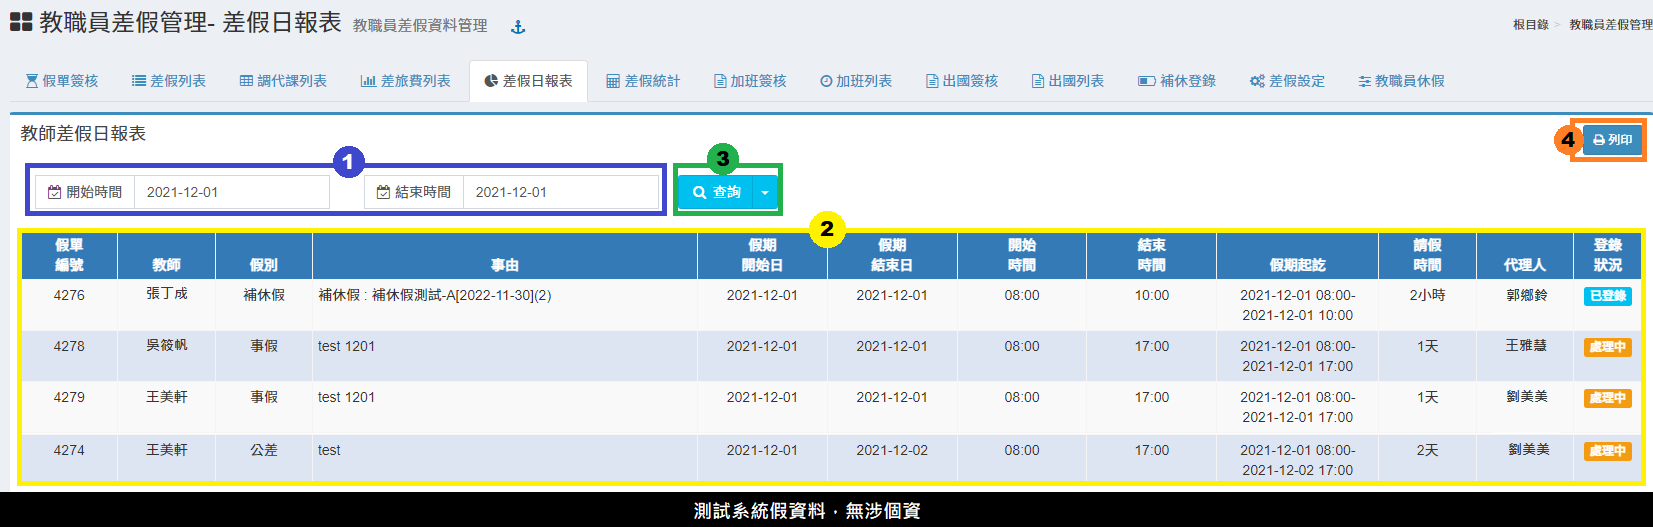
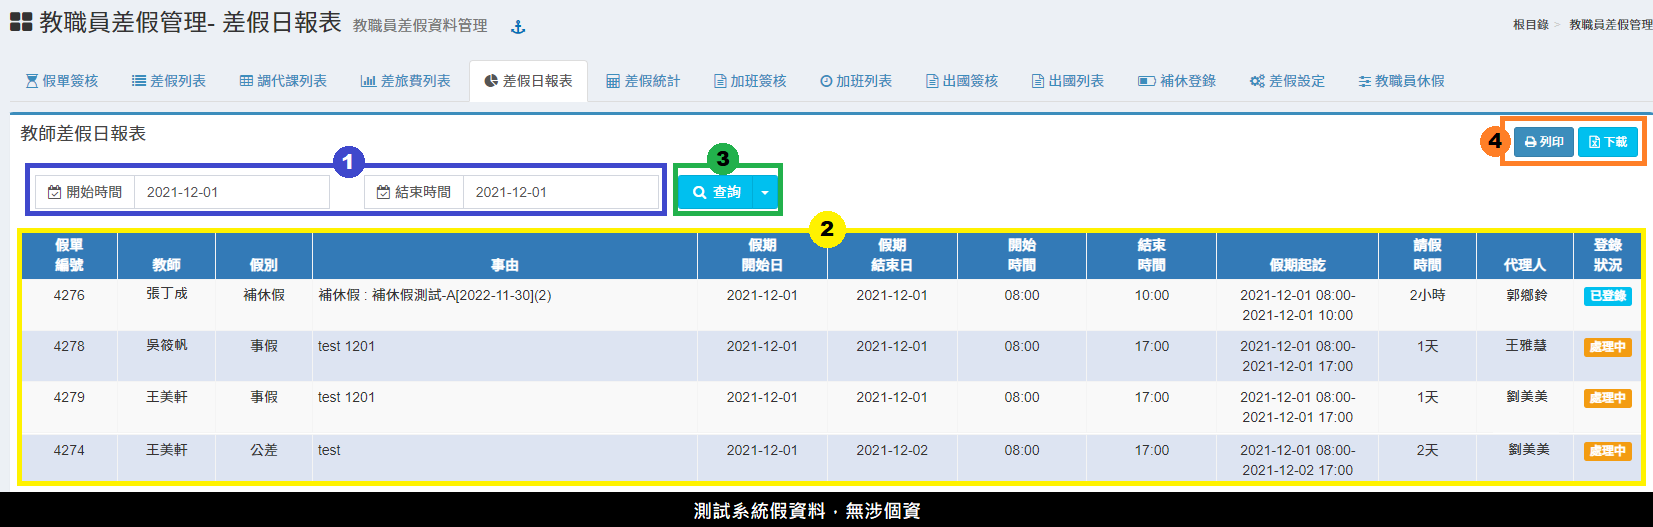
GitBook: [#340] [CHECK]教職員差假 0103

Changed region(s): [[0.8947, 0.2125, 1.0, 0.334]]

diff --git a/xiao-hang-zheng/jiao-zhi-yuan-cha-jia-cha-jia-guan-li.md b/xiao-hang-zheng/jiao-zhi-yuan-cha-jia-cha-jia-guan-li.md
@@ -220,7 +220,7 @@
 2. 代理人或單位主管位沒有簽核時，後續核章人員都無法簽核，需依序簽核。
 3. 出現**「簽核、退件」**表示該筆假單需要簽核，當請假人為「免課務簽核之職稱」，在課務處理人員那欄會自動帶出「免簽核」（如圖中教學組長欄位）。
 4. 管理人員可勾選**「全選**」，進行批次簽核作業。
-5.  點擊「簽核備註語庫」，可編修簽核備註語庫供退件假單時快速選擇已自訂之退件原因，如下圖:
+5.  點擊**「簽核備註語庫」**，可編修簽核備註語庫供退件假單時快速選擇已自訂之退件原因，如下圖:
 
     ![](../.gitbook/assets/teacher-absent-sign2.png)
 
@@ -273,7 +273,7 @@
 1. 選擇日報表統計之**「開始、結束時間」**。
 2. 表格呈現統計時間內之假單。
 3. 點擊**「查詢」**旁下拉標示，可查詢區間假單：本週、本月、最近三個月。
-4. 可**「列印」**統計日報表。
+4. 可**「列印、下載」**差假日報表。
 
 ### 差假統計
 
@@ -283,7 +283,7 @@
 
 1. 選擇統計之**「學年／曆年」**、**「教師職員身分」**、**「假單月份」**。或輸入統計**「起訖時間」**、**「教職員姓名」**。
 2. 此處僅會計算已登錄差假紀錄。
-3. 可匯出**「人事行政總處格式之 CSV 檔(差假)」、「人事行政總處格式之 JSON檔(差價與加班)」、「未休假加班費清冊(兼行政教師)」、「未休假加班費清冊(職員)」**
+3. 可匯出**「人事行政總處格式之 CSV 檔(差假)」、「人事行政總處格式之 JSON檔(差假與加班)」、「未休假加班費清冊(兼行政教師)」、「未休假加班費清冊(職員)」**
 4. 可**「列印」**統計結果。
 
 {% hint style="warning" %}
@@ -304,7 +304,7 @@
     「未簽核」表示該筆加班申請單需要簽核，按下「未簽核」按鈕來簽核加班申請單。
 
     「已簽核」表示此筆加班申請單已簽核，若已簽核的假單，可在後續主管尚未簽核前，點擊「已簽核」按鈕來取消簽核。 若後續主管已簽核，則無法取消簽核。&#x20;
-3.  具假單登錄權限人員，在申請單簽核完畢後可以按下**「登錄」**，亦可以**「編輯、刪除」**申請單，如下圖
+3.  具假單登錄權限人員，在申請單簽核完畢後可以按下**「登錄」**，亦可以**「編輯、註銷」**申請單，如下圖
 
     ![](../.gitbook/assets/absent-overtime-sign2.png)
 
@@ -330,7 +330,7 @@
 
 ![](../.gitbook/assets/eacher-application1.png)
 
-1. 選擇**「學期、簽核狀態、申請表類型、起訖時間」**，點擊**「查詢」**可查詢出國簽核紀錄。&#x20;
+1. 選擇**「學期、申請表類型、起訖時間」**，點擊**「查詢」**可查詢出國簽核紀錄。&#x20;
 2. 具假單登錄權限人員，可按下**「登錄」**，登錄此筆出國申請。&#x20;
 3. 擁有「出國列表」權限人員，都可以**「編輯、註銷」**出國申請單。&#x20;
 4. 點擊**「匯出出國資料」**，即可下載出國申請表列表。
@@ -400,5 +400,9 @@
 5. 拖曳完成務必按下**「更新排序」**。
 6. 可**「新增」**免課務核章的職稱，如校長、人事主任等無課務之職稱。
 7. 可**「刪除」**不需課務核章的職稱。
-8. **「參數設定」**可進行模組參數調整
+8. **「參數設定」**區塊可進行模組參數調整
+
+{% hint style="danger" %}
+簽核順序經過設定後，請盡量不要更動，若實在有必要異動，請務必讓目前所有尚未簽核之假單均完成簽核及登錄程序。簽核順序一旦經過異動，先前所有假單也會套用新的簽核順序，會導致簽核資料無法對應的問題。
+{% endhint %}
 
